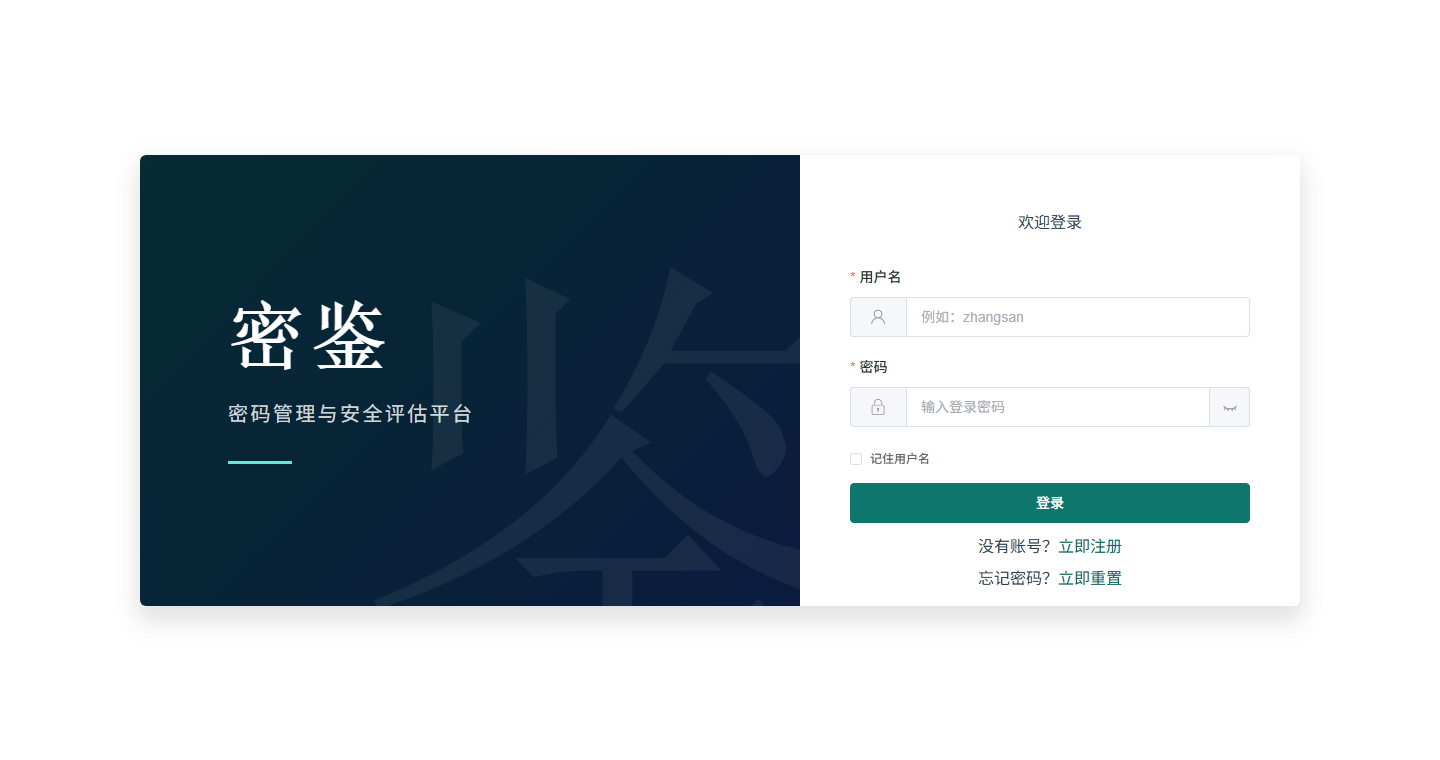
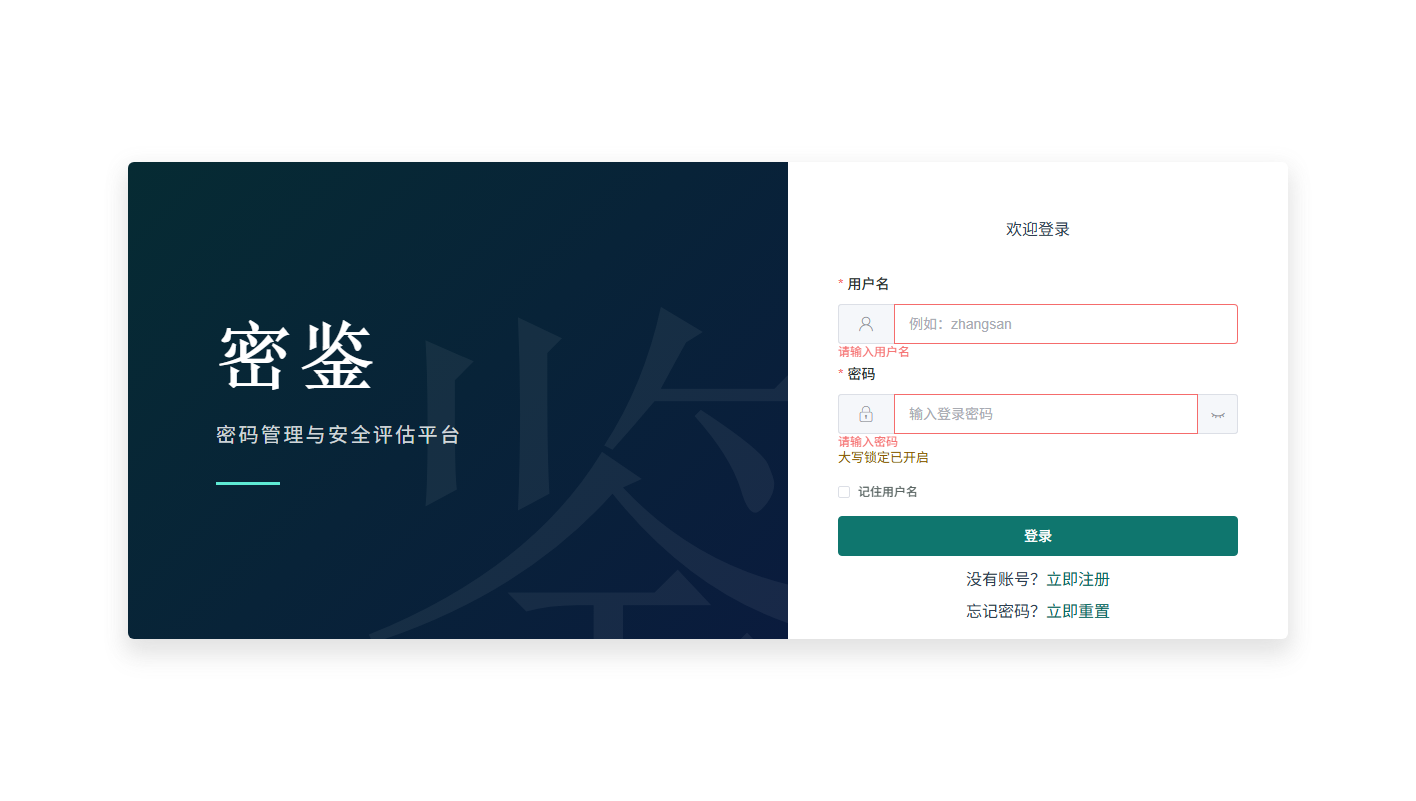
docs(readme): 界面一节按功能分组，补齐全部功能截图
- 11 张真实运行截图，按账号与认证 / 密码管理 / 密码评估 / 日志与账户分组：
  登录（大写锁定+字段校验）、注册（强度条）、忘记密码、首页、
  密码项列表、随机密码生成器、多选批量操作、批量评估结果、
  评估结果（仪表盘+雷达）、日志查询、修改信息
- 顺手修：侧栏选中项文字用 --system-primary-text-color，但这个变量从未定义，
  var() 解析失败后继承成灰色，在青绿选中块上几乎看不清；补 store 默认值 +
  theme/index.css 定义 + 菜单里显式兜底
- 清理 Menu/index.vue 未使用的 router

diff --git a/frontend/src/layout/Menu/index.vue b/frontend/src/layout/Menu/index.vue
@@ -18,7 +18,7 @@
 
 <script lang="js">
 import { defineComponent, computed, onMounted } from 'vue'
-import { useRouter, useRoute } from 'vue-router'
+import { useRoute } from 'vue-router'
 import { useStore } from 'vuex'
 import MenuItem from './MenuItem.vue'
 import { modules } from '@/router' // 引入手动配置的路由数组
@@ -29,7 +29,6 @@ export default defineComponent({
   },
   setup() {
     const store = useStore()
-    const router = useRouter()
     const isCollapse = computed(() => store.state.app.isCollapse)
     const expandOneMenu = computed(() => store.state.app.expandOneMenu)
     const allRoutes = computed(() => modules) // 使用手动配置的路由数组，而不是router.getRoutes()
@@ -74,18 +73,18 @@ export default defineComponent({
 :deep(.el-menu-item.is-active),
 :deep(.el-sub-menu__title.is-active) {
   background-color: var(--system-primary-color) !important;
-  color: var(--system-primary-text-color) !important;
+  color: var(--system-primary-text-color, #ffffff) !important;
 }
 
 :deep(.el-menu-item.is-active i),
 :deep(.el-sub-menu__title.is-active i) {
-  color: var(--system-primary-text-color) !important;
+  color: var(--system-primary-text-color, #ffffff) !important;
 }
 
 :deep(.el-menu-item.is-active:hover),
 :deep(.el-sub-menu__title.is-active:hover) {
   background-color: var(--system-primary-color) !important;
-  color: var(--system-primary-text-color) !important;
+  color: var(--system-primary-text-color, #ffffff) !important;
 }
 
 :deep(.el-menu-item:hover),
@@ -104,12 +103,12 @@ export default defineComponent({
 
 :deep(.el-sub-menu .el-menu-item.is-active) {
   background-color: var(--system-primary-color) !important;
-  color: var(--system-primary-text-color) !important;
+  color: var(--system-primary-text-color, #ffffff) !important;
 }
 
 :deep(.el-sub-menu .el-menu-item.is-active:hover) {
   background-color: var(--system-primary-color) !important;
-  color: var(--system-primary-text-color) !important;
+  color: var(--system-primary-text-color, #ffffff) !important;
 }
 
 :deep(.el-sub-menu .el-menu-item:hover) {

diff --git a/frontend/src/theme/index.css b/frontend/src/theme/index.css
@@ -5,6 +5,7 @@
 :root {
   /* 主题颜色 */
   --el-color-primary: var(--system-primary-color, #0f766e);
+  --system-primary-text-color: #ffffff;
   /* logo */
   --system-logo-color: #eaf3f1;
   --system-logo-background: #0f3b42;

diff --git a/frontend/src/store/modules/app.js b/frontend/src/store/modules/app.js
@@ -11,6 +11,7 @@ const state = () => ({
     state: {
       style: 'default',
       primaryColor: '#0f766e',
+      primaryTextColor: '#ffffff',
       menuType: 'side'
     }
   },

diff --git a/README.md b/README.md
@@ -4,19 +4,37 @@
 
 ## 界面
 
-| 登录 | 注册（含密码强度提示） |
-| --- | --- |
-| ![登录页](docs/screenshots/login.png) | ![注册页](docs/screenshots/register.png) |
+**账号与认证**
 
-| 首页 | 密码管理 |
+| 登录（大写锁定提示 · 字段校验） | 注册（实时密码强度） |
 | --- | --- |
-| ![首页](docs/screenshots/dashboard.png) | ![密码管理](docs/screenshots/password-list.png) |
+| ![登录](docs/screenshots/login.png) | ![注册](docs/screenshots/register.png) |
 
-| 密码评估 | 日志查询 |
+| 忘记密码（邮箱验证码） | 首页 |
 | --- | --- |
-| ![密码评估](docs/screenshots/password-evaluate.png) | ![日志查询](docs/screenshots/log.png) |
+| ![忘记密码](docs/screenshots/forgot-password.png) | ![首页](docs/screenshots/dashboard.png) |
 
-> 截图为 1440×760 的真实运行截图。
+**密码管理**
+
+| 密码项列表（检索 · 分页） | 随机密码生成器 |
+| --- | --- |
+| ![密码项列表](docs/screenshots/password-list.png) | ![密码生成器](docs/screenshots/password-generator.png) |
+
+| 多选批量操作 | 批量评估结果 |
+| --- | --- |
+| ![批量操作](docs/screenshots/batch-operations.png) | ![批量评估](docs/screenshots/batch-evaluate.png) |
+
+**密码评估**
+
+![密码评估](docs/screenshots/password-evaluate.png)
+
+**日志与账户**
+
+| 日志查询 | 修改信息 |
+| --- | --- |
+| ![日志查询](docs/screenshots/log.png) | ![修改信息](docs/screenshots/user-edit.png) |
+
+> 以上均为真实运行截图，非设计稿。
 
 ## 功能
 
